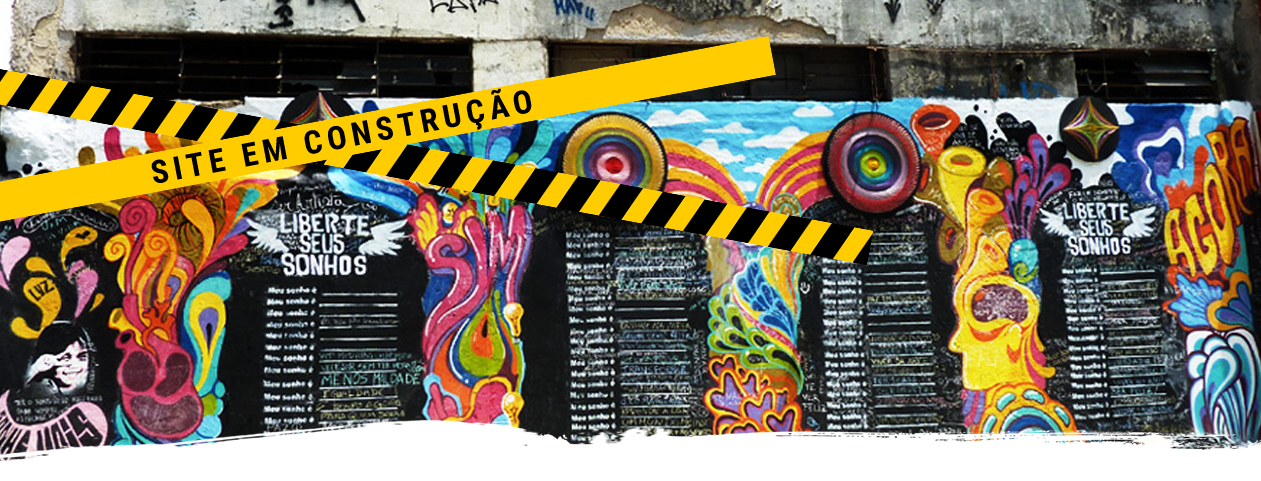
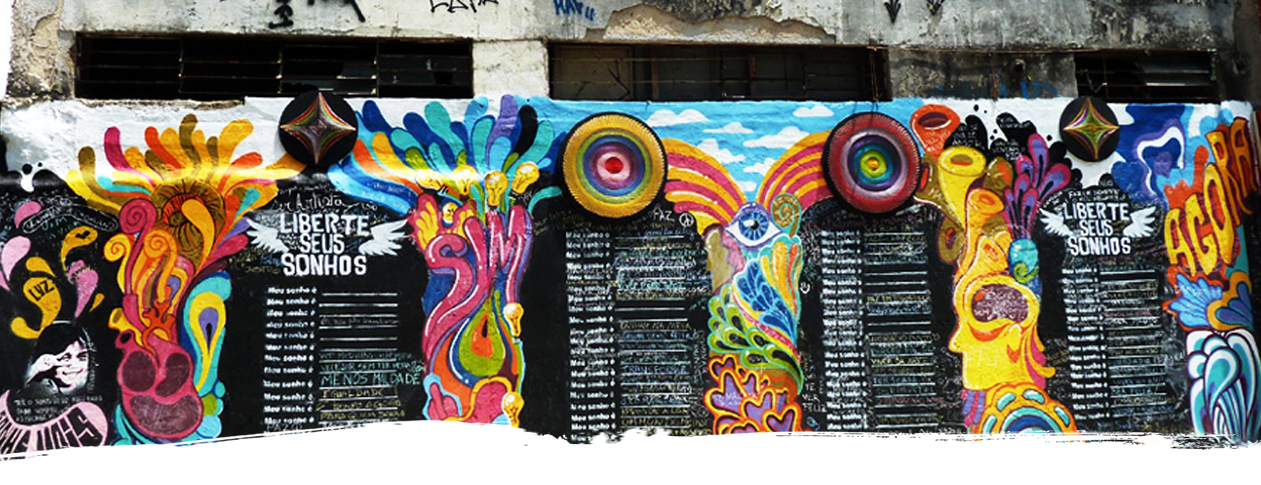
Vídeo - Ajuste na faixa de "Em construção"

diff --git a/style.css b/style.css
@@ -52,19 +52,21 @@ header .logo {
 
 /* Vídeo */
 .content-video {
-	top: -120px;
-	height: 500px;
+	top: -90px;
+	height: 460px;
+}
+.content-video img.em-construcao {
+	margin-top: 25px;
+}
+body > img.bg {
+	width: 100%;
+	position: absolute;
+	z-index: -1;
+	top: -150px;
 }
 .content-video div.iframe {
-	margin: 0 auto;
+	margin: -110px auto 0;
 	width: 640px;
-	position: relative;
-	top: 260px;
-}
-.content-video > .container > img {
-	display: block;
-	width: 100%;
-	margin-top: -484px;
 }
 
 /* Typeform */

diff --git a/content-video.php b/content-video.php
@@ -9,10 +9,10 @@
 ?>
 <section id="page_<?php the_id() ?>" class="content-video page_<?php the_id() ?>">
 	<div class="container">
-		
+		<img src="<?php bloginfo('template_directory') ?>/images/em-construcao.png" class="em-construcao" />
 		<div class="iframe">
 			<iframe width="640" height="360" src="//www.youtube.com/embed/<?php the_field('video_id') ?>?showinfo=0" frameborder="0" allowfullscreen></iframe>
 		</div>
-		<img src="<?php bloginfo('template_directory') ?>/images/video-bg.png" />
 	</div>
 </section>
+<img src="<?php bloginfo('template_directory') ?>/images/video-bg.png" class="bg container" />
